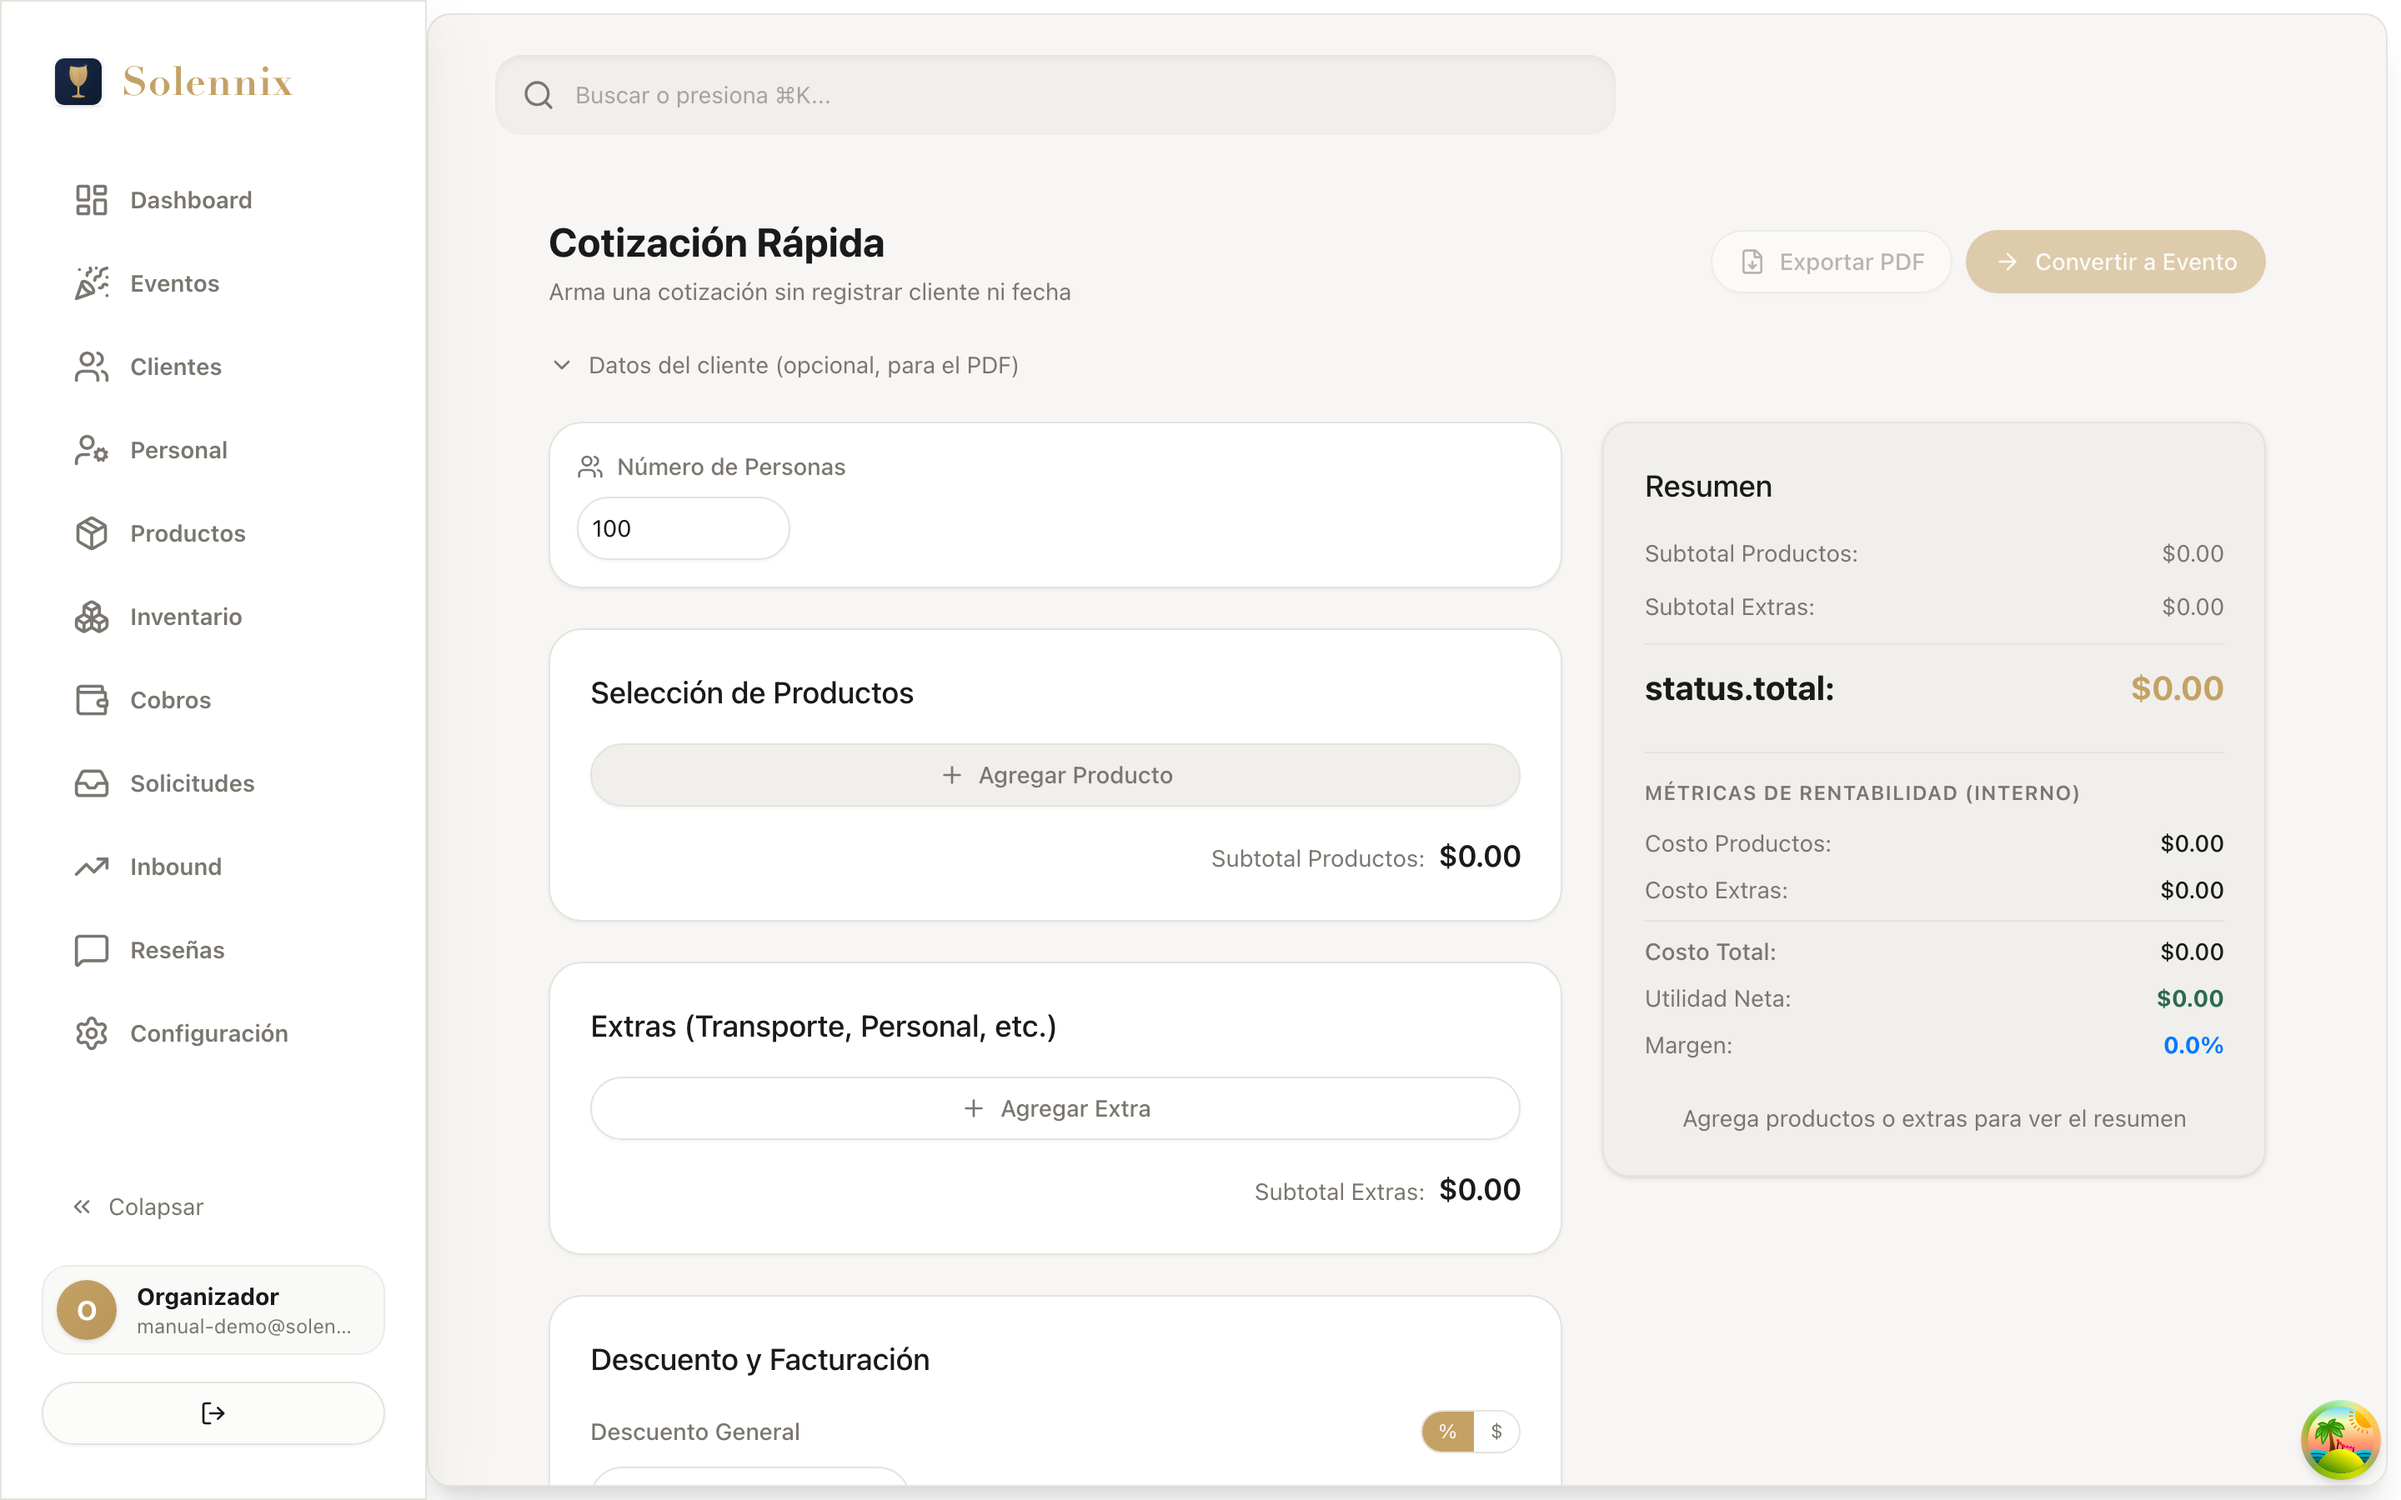
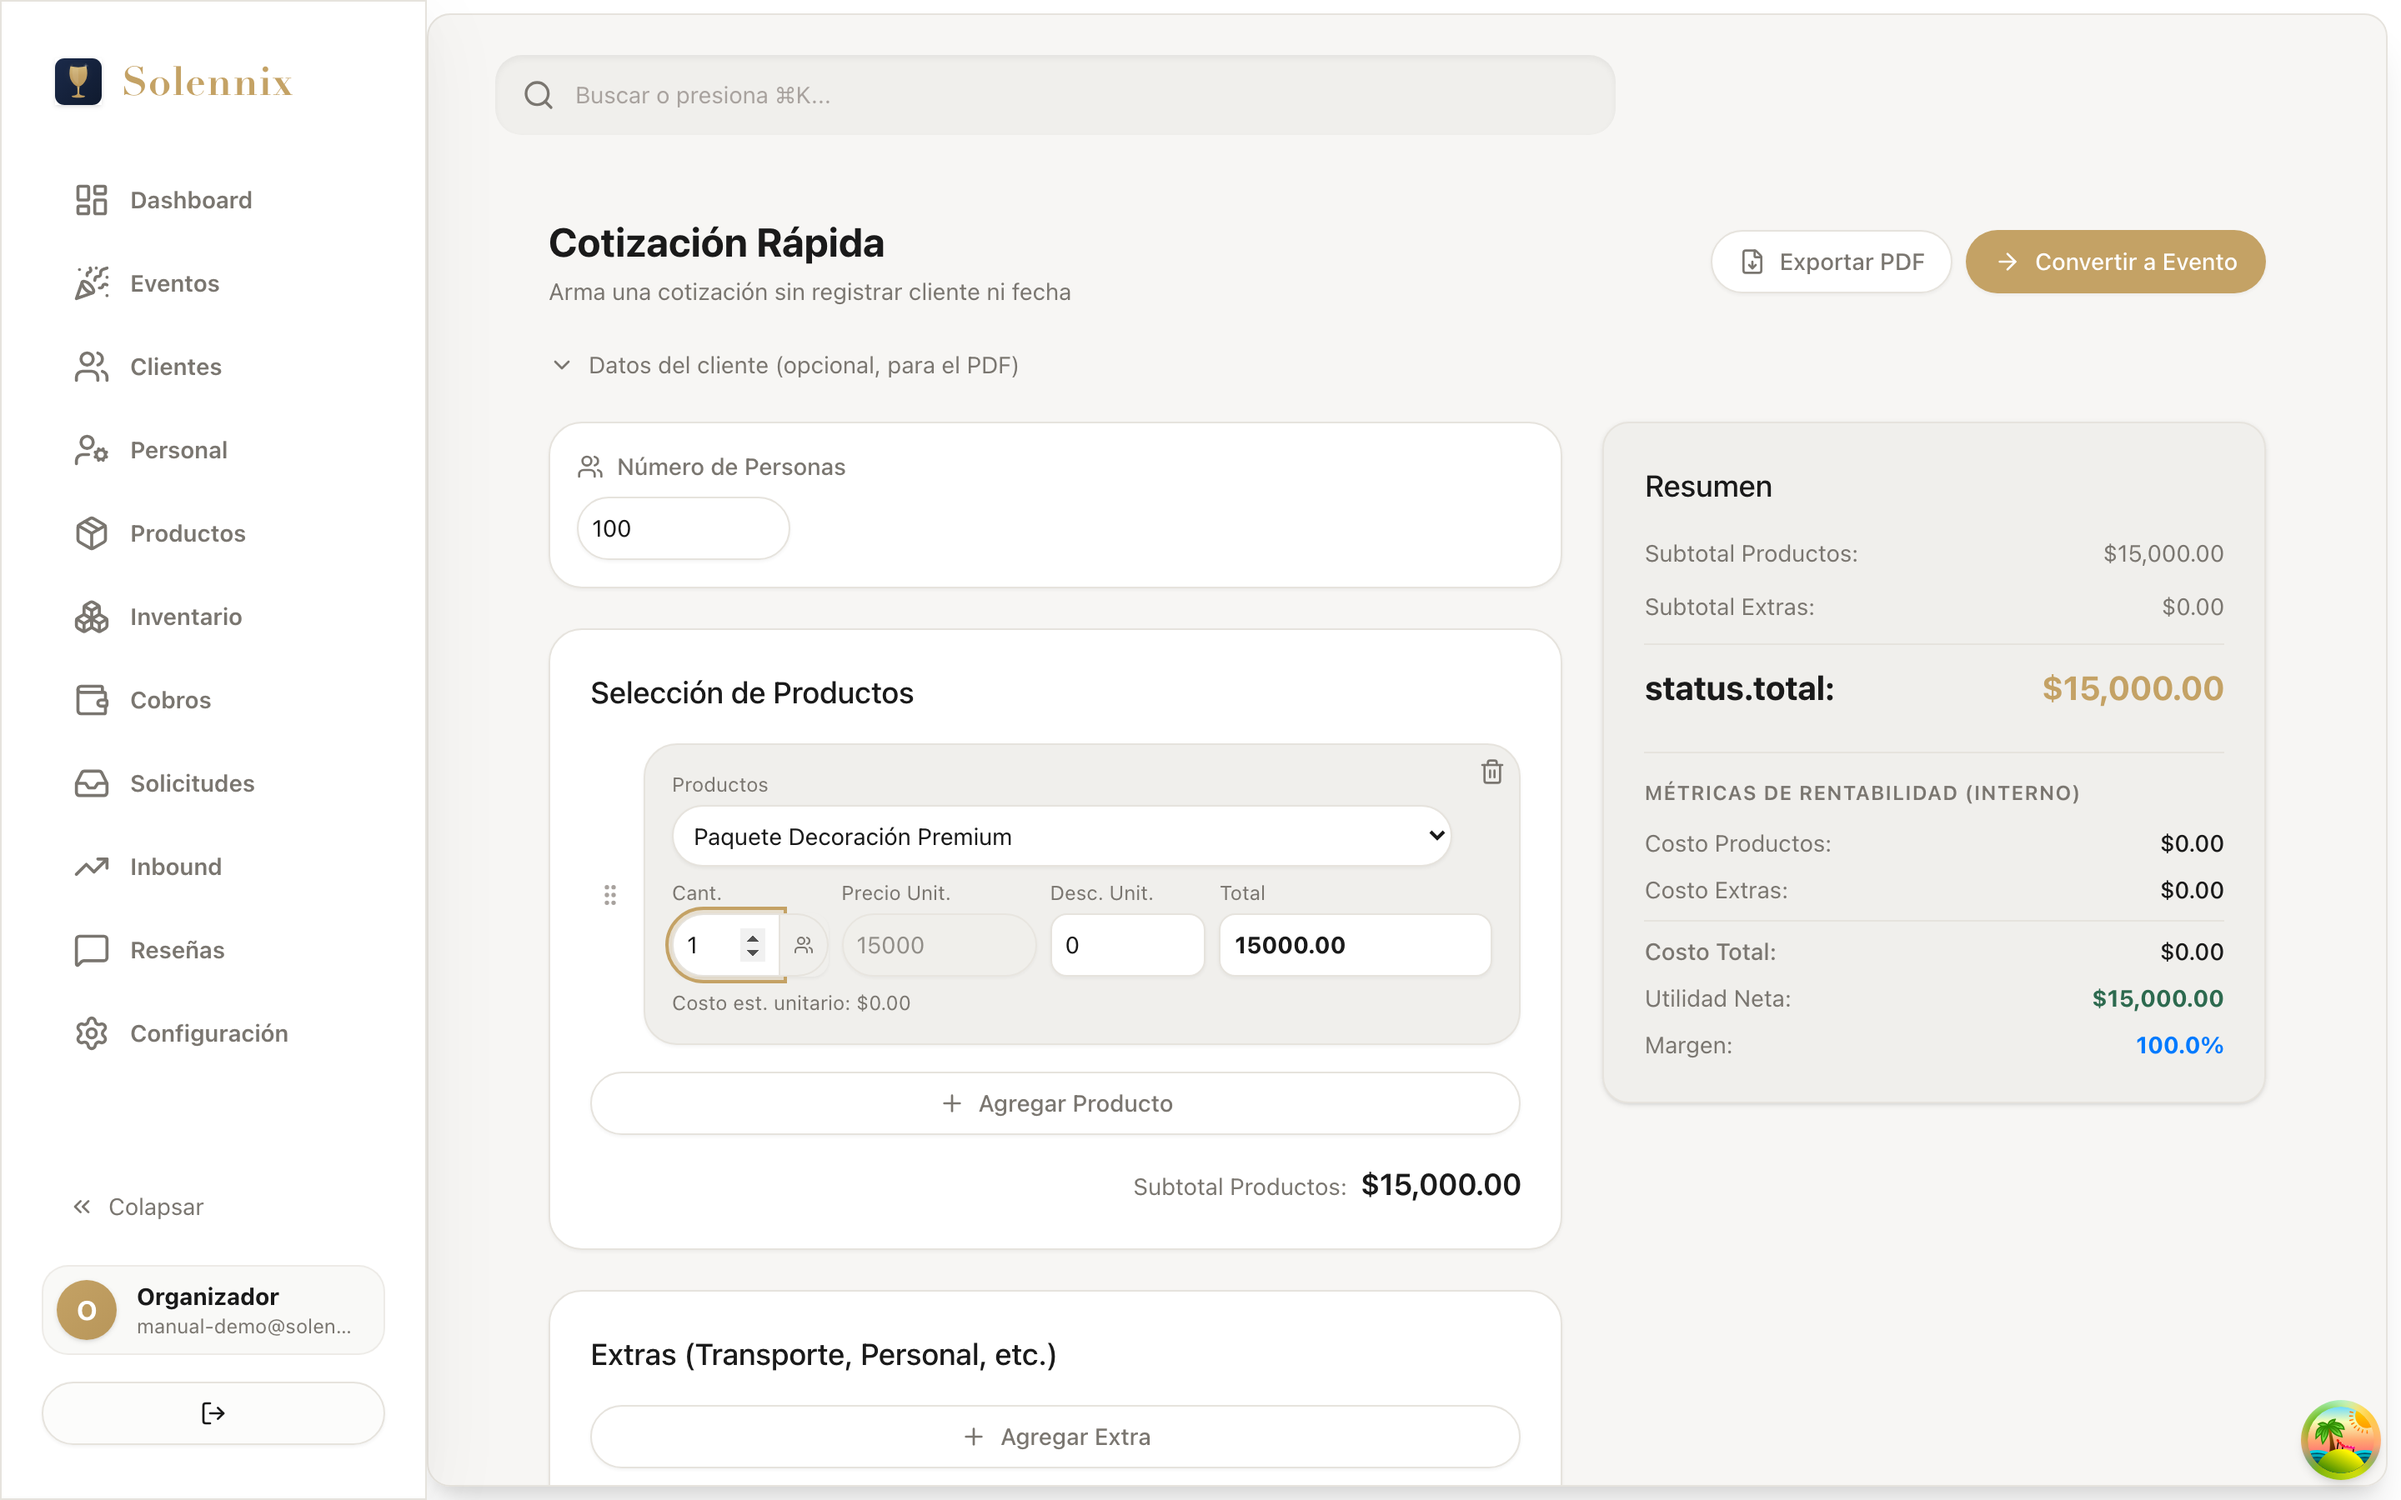
feat(web): polish manual quote shots and add iOS screens
Improve capture script login/product selection so quick-quote screenshots show a filled product line and totals. Map iOS marketing finals into /help/manual/ios and mark iOS as ready in the platform selector.

diff --git a/web/src/content/userManual.ts b/web/src/content/userManual.ts
@@ -45,7 +45,7 @@ export const MANUAL_ARTICLES: ManualArticle[] = [
     slug: "que-es-solennix",
     order: 1,
     durationMin: 2,
-    screenshotsReady: { web: true },
+    screenshotsReady: { web: true, ios: true },
     es: {
       title: "Qué es Solennix",
       description: "Para qué sirve la app y qué vas a lograr con ella.",
@@ -101,7 +101,7 @@ export const MANUAL_ARTICLES: ManualArticle[] = [
     slug: "cuenta-y-acceso",
     order: 2,
     durationMin: 3,
-    screenshotsReady: { web: true },
+    screenshotsReady: { web: true, ios: true },
     es: {
       title: "Cuenta y acceso",
       description: "Crear tu cuenta, iniciar sesión y entrar al panel.",
@@ -159,7 +159,7 @@ export const MANUAL_ARTICLES: ManualArticle[] = [
     slug: "crear-cliente",
     order: 3,
     durationMin: 3,
-    screenshotsReady: { web: true },
+    screenshotsReady: { web: true, ios: true },
     es: {
       title: "Crear un cliente",
       description: "Alta del contacto que contratará el evento.",
@@ -225,7 +225,7 @@ export const MANUAL_ARTICLES: ManualArticle[] = [
     slug: "crear-producto",
     order: 4,
     durationMin: 4,
-    screenshotsReady: { web: true },
+    screenshotsReady: { web: true, ios: true },
     es: {
       title: "Crear un producto",
       description: "Armá el catálogo de lo que vendés y cotizás.",
@@ -291,7 +291,7 @@ export const MANUAL_ARTICLES: ManualArticle[] = [
     slug: "crear-inventario",
     order: 5,
     durationMin: 4,
-    screenshotsReady: { web: true },
+    screenshotsReady: { web: true, ios: true },
     es: {
       title: "Crear un ítem de inventario",
       description: "Equipos e insumos con control de stock.",
@@ -357,7 +357,7 @@ export const MANUAL_ARTICLES: ManualArticle[] = [
     slug: "crear-evento",
     order: 6,
     durationMin: 5,
-    screenshotsReady: { web: true },
+    screenshotsReady: { web: true, ios: true },
     es: {
       title: "Crear un evento",
       description: "Fecha, cliente y el contenedor de la operación.",
@@ -423,7 +423,7 @@ export const MANUAL_ARTICLES: ManualArticle[] = [
     slug: "armar-cotizacion",
     order: 7,
     durationMin: 6,
-    screenshotsReady: { web: true },
+    screenshotsReady: { web: true, ios: true },
     es: {
       title: "Armar una cotización",
       description: "Sumá productos del catálogo y calculá el total.",
@@ -489,7 +489,7 @@ export const MANUAL_ARTICLES: ManualArticle[] = [
     slug: "compartir-cotizacion",
     order: 8,
     durationMin: 4,
-    screenshotsReady: { web: true },
+    screenshotsReady: { web: true, ios: true },
     es: {
       title: "Compartir la cotización",
       description: "PDF o enlace profesional para el cliente.",

diff --git a/docs/Marketing/user-manual/README.md b/docs/Marketing/user-manual/README.md
@@ -41,7 +41,8 @@ Rules:
 - Demo / fictional names only (no real client PII)
 - Prefer light mode, 1440×900, deviceScaleFactor 2
 - Web journey images are PNG under `web/public/help/manual/web/`
-- Keep iOS/Android empty until platform phase; UI shows “screenshot coming soon”
+- **iOS (phase 2 interim):** store/marketing finals from `docs/Marketing/ios_screens/final/iphone/` are copied into `web/public/help/manual/ios/` (mapped by screen). Replace with simulator captures when the iOS demo account flow is scripted.
+- Android still empty until phase 3; UI shows “screenshot coming soon” for that tab.
 
 ## Content order (first journey)
 
